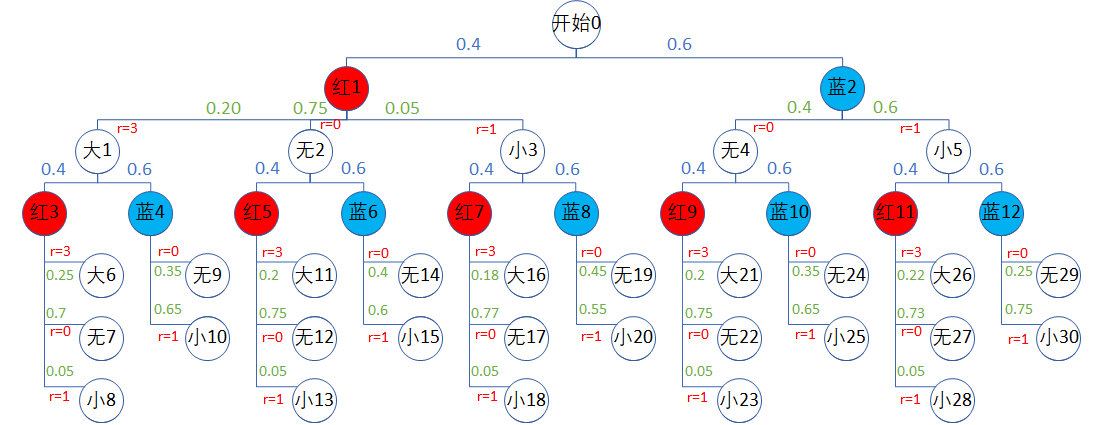
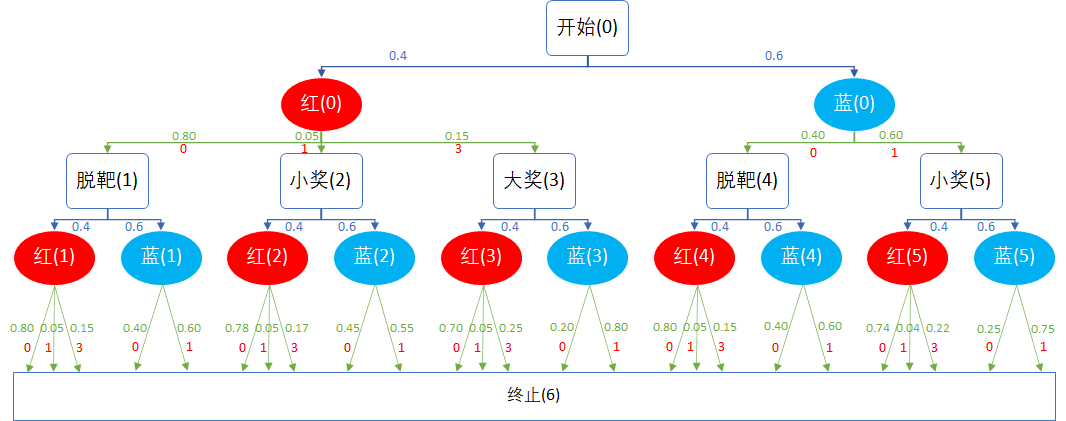
update

Changed region(s): [[0.0, 0.0, 0.9906, 1.0], [0.712, 0.8646, 0.743, 0.8955]]

diff --git a/基础教程/A7-强化学习/draft/80-马尔可夫决策过程/src/Shoot_0_DataModel.py b/基础教程/A7-强化学习/draft/80-马尔可夫决策过程/src/Shoot_0_DataModel.py
@@ -1,13 +1,13 @@
 from enum import Enum
 
 class States(Enum):
-     Start = 0       # 开始
-     SR0 = 1       # 脱靶
-     SR1 = 2       # 小奖
-     SR3 = 3       # 大奖
-     SB0 = 4       # 脱靶
-     SB1 = 5       # 小奖
-     T6 = 6       # 终止
+     Start = 0      # 开始
+     S_Red_R0 = 1   # 脱靶
+     S_Red_R1 = 2   # 小奖
+     S_Red_R3 = 3   # 大奖
+     S_Blue_R0 = 4  # 脱靶
+     S_Blue_R1 = 5  # 小奖
+     T = 6          # 终止
 
 # 动作空间
 class Actions(Enum):
@@ -24,76 +24,77 @@ P = {
     # state: {action: [(p, s', r),...]}
     States.Start.value:{                                    # 开始状态（第一枪）
         Actions.Red.value:[                                 # 选择射击红球
-            (0.80, States.SR0.value, Rewards.Zero.value ),  # 脱靶的概率:0.80,      转移到状态 SR0(1), 得到0分奖励
-            (0.05, States.SR1.value, Rewards.Small.value),  # 误中蓝球的概率:0.05,  转移到状态 SR1(2), 得到1分奖励
-            (0.15, States.SR3.value, Rewards.Grand.value),  # 击中红球的概率:0.15,  转移到状态 SR3(3), 得到3分奖励
+            (0.80, States.S_Red_R0.value, Rewards.Zero.value ),  # 脱靶的概率:0.80,      转移到状态 SR0(s1), 得到0分奖励
+            (0.05, States.S_Red_R1.value, Rewards.Small.value),  # 误中蓝球的概率:0.05,  转移到状态 SR1(s2), 得到1分奖励
+            (0.15, States.S_Red_R3.value, Rewards.Grand.value),  # 击中红球的概率:0.15,  转移到状态 SR3(s3), 得到3分奖励
         ],       
         Actions.Blue.value:[                                # 选择射击蓝球
-            (0.40, States.SB0.value, Rewards.Zero.value),   # 脱靶的概率:0.40,      转移到状态 SB0(4), 得到0分奖励
-            (0.60, States.SB1.value, Rewards.Small.value)   # 击中蓝球的概率:0.6,   转移到状态 SB1(5), 得到1分奖励
+            (0.40, States.S_Blue_R0.value, Rewards.Zero.value),   # 脱靶的概率:0.40,      转移到状态 SB0(s4), 得到0分奖励
+            (0.60, States.S_Blue_R1.value, Rewards.Small.value)   # 击中蓝球的概率:0.6,   转移到状态 SB1(s5), 得到1分奖励
         ]                   
     },
-    States.SR0.value:{   # 打红球脱靶
-        Actions.Red.value:[                                 # 选择射击红球
-            (0.80, States.T6.value, Rewards.Zero.value),    # 第二枪脱靶的概率降低到 0.73
-            (0.05, States.T6.value, Rewards.Small.value),   # 误中蓝球的概率不变
-            (0.15, States.T6.value, Rewards.Grand.value),   # 第二枪击中红球的概率 0.22,提高了
+    # 以下为第二枪的选择
+    States.S_Red_R0.value:{                                 # 第一枪打红球脱靶
+        Actions.Red.value:[                                 # 继续选择射击红球
+            (0.80, States.T.value, Rewards.Zero.value),     # 第二枪脱靶概率
+            (0.05, States.T.value, Rewards.Small.value),    # 第二枪误中蓝球的概率
+            (0.15, States.T.value, Rewards.Grand.value),    # 第二枪击中红球的概率
         ],
-        Actions.Blue.value:[                                # 选择射击蓝球
-            (0.40, States.T6.value, Rewards.Zero.value),    # 第二枪脱靶的概率不变
-            (0.60, States.T6.value, Rewards.Small.value)    # 第二枪击中蓝球概率不变
+        Actions.Blue.value:[                                # 第二枪选择射击蓝球
+            (0.40, States.T.value, Rewards.Zero.value),     # 第二枪脱靶的概率不变
+            (0.60, States.T.value, Rewards.Small.value)     # 第二枪击中蓝球概率不变
         ]
     },
-    States.SR1.value:{   # 打红球误中小奖
-        Actions.Red.value:[                                 # 选择射击红球
-            (0.78, States.T6.value, Rewards.Zero.value),    # 
-            (0.05, States.T6.value, Rewards.Small.value),
-            (0.17, States.T6.value, Rewards.Grand.value),
+    States.S_Red_R1.value:{                                 # 第一枪打红球误中蓝球
+        Actions.Red.value:[                                 # 继续选择射击红球
+            (0.78, States.T.value, Rewards.Zero.value),     # 脱靶率降低
+            (0.05, States.T.value, Rewards.Small.value),    # 误中蓝色球
+            (0.17, States.T.value, Rewards.Grand.value),    # 击中红球率升高
         ],
-        Actions.Blue.value:[                 
-            (0.45, States.T6.value, Rewards.Zero.value), 
-            (0.55, States.T6.value, Rewards.Small.value)
+        Actions.Blue.value:[                                # 第二枪选择射击蓝球
+            (0.45, States.T.value, Rewards.Zero.value),     # 脱靶率升高
+            (0.55, States.T.value, Rewards.Small.value)     # 击中蓝球率降低
         ]
     }, 
-    States.SR3.value:{   # 打红大奖
-        Actions.Red.value:[               
-            (0.70, States.T6.value, Rewards.Zero.value), 
-            (0.05, States.T6.value, Rewards.Small.value),
-            (0.25, States.T6.value, Rewards.Grand.value), 
+    States.S_Red_R3.value:{                                 # 第一枪打红球击中大奖
+        Actions.Red.value:[                                 # 继续选择射击红球
+            (0.70, States.T.value, Rewards.Zero.value),     # 脱靶率降低
+            (0.05, States.T.value, Rewards.Small.value),    # 误中蓝色球
+            (0.25, States.T.value, Rewards.Grand.value),    # 击中红球率升高
         ],
-        Actions.Blue.value:[                 
-            (0.20, States.T6.value, Rewards.Zero.value), 
-            (0.80, States.T6.value, Rewards.Small.value)
+        Actions.Blue.value:[                                # 第二枪选择射击蓝球                 
+            (0.20, States.T.value, Rewards.Zero.value),     # 脱靶率降低
+            (0.80, States.T.value, Rewards.Small.value)     # 击中蓝球率提高
         ]
     },
-    States.SB0.value:{   # 打蓝脱靶
-        Actions.Red.value:[                   
-            (0.80, States.T6.value, Rewards.Zero.value), 
-            (0.05, States.T6.value, Rewards.Small.value),
-            (0.15, States.T6.value, Rewards.Grand.value), 
+    States.S_Blue_R0.value:{                                # 第一枪打蓝脱靶
+        Actions.Red.value:[                                 # 继续选择射击红球
+            (0.80, States.T.value, Rewards.Zero.value),     # 脱靶率不变
+            (0.05, States.T.value, Rewards.Small.value),    # 误中蓝球
+            (0.15, States.T.value, Rewards.Grand.value),    # 击中红球率不变
         ],
-        Actions.Blue.value:[                 
-            (0.40, States.T6.value, Rewards.Zero.value), 
-            (0.60, States.T6.value, Rewards.Small.value)
+        Actions.Blue.value:[                                # 第二枪选择射击蓝球
+            (0.40, States.T.value, Rewards.Zero.value),     # 脱靶概率不变
+            (0.60, States.T.value, Rewards.Small.value)     # 击中蓝球率不变
         ]
     },
-    States.SB1.value:{   # 打蓝小奖
-        Actions.Red.value:[                   
-            (0.74, States.T6.value, Rewards.Zero.value), 
-            (0.04, States.T6.value, Rewards.Small.value),
-            (0.22, States.T6.value, Rewards.Grand.value), 
+    States.S_Blue_R1.value:{                                # 第一枪打蓝球中小奖
+        Actions.Red.value:[                                 # 选择射击红球
+            (0.74, States.T.value, Rewards.Zero.value),     # 脱靶率降低
+            (0.04, States.T.value, Rewards.Small.value),    # 误中蓝球
+            (0.22, States.T.value, Rewards.Grand.value),    # 击中目标红球率升高
         ],
-        Actions.Blue.value:[               
-            (0.25, States.T6.value, Rewards.Zero.value), 
-            (0.75, States.T6.value, Rewards.Small.value)
+        Actions.Blue.value:[                                # 第二枪选择射击蓝球
+            (0.25, States.T.value, Rewards.Zero.value),     # 脱靶率很低
+            (0.75, States.T.value, Rewards.Small.value)     # 击中蓝球率很高
         ]
     },
-    States.T6.value:{   # 终止
+    States.T.value:{   # 终止
         Actions.Red.value:[
-            (1.0, States.T6.value, 0)
+            (1.0, States.T.value, 0)
         ],
         Actions.Blue.value:[
-            (1.0, States.T6.value, 0)
+            (1.0, States.T.value, 0)
         ]
     }
 }
@@ -106,7 +107,7 @@ class Env(object):
         self.A = Actions
         self.P = P
         self.Policy = policy
-        self.end_states = [States.T6.value]
+        self.end_states = [States.T.value]
 
     def get_actions(self, s):
         actions = self.P[s]
@@ -136,18 +137,18 @@ if __name__=="__main__":
     print("第一枪脱靶", p0)
 
     # 第一枪脱靶后第二枪也脱靶
-    p00 = 0.4 * (0.4 * P[States.SR0.value][Actions.Red.value][0][0] \
-               + 0.6 * P[States.SR0.value][Actions.Blue.value][0][0]) \
-        + 0.6 * (0.4 * P[States.SB0.value][Actions.Red.value][0][0] \
-               + 0.6 * P[States.SB0.value][Actions.Blue.value][0][0])
+    p00 = 0.4 * (0.4 * P[States.S_Red_R0.value][Actions.Red.value][0][0] \
+               + 0.6 * P[States.S_Red_R0.value][Actions.Blue.value][0][0]) \
+        + 0.6 * (0.4 * P[States.S_Blue_R0.value][Actions.Red.value][0][0] \
+               + 0.6 * P[States.S_Blue_R0.value][Actions.Blue.value][0][0])
     # 第一枪脱靶后第二枪中小奖
-    p01 = 0.4 * (0.4 * P[States.SR0.value][Actions.Red.value][1][0] \
-               + 0.6 * P[States.SR0.value][Actions.Blue.value][1][0]) \
-        + 0.6 * (0.4 * P[States.SB0.value][Actions.Red.value][1][0] \
-               + 0.6 * P[States.SB0.value][Actions.Blue.value][1][0])
+    p01 = 0.4 * (0.4 * P[States.S_Red_R0.value][Actions.Red.value][1][0] \
+               + 0.6 * P[States.S_Red_R0.value][Actions.Blue.value][1][0]) \
+        + 0.6 * (0.4 * P[States.S_Blue_R0.value][Actions.Red.value][1][0] \
+               + 0.6 * P[States.S_Blue_R0.value][Actions.Blue.value][1][0])
     # 第一枪脱靶后第二枪中大奖
-    p02 = 0.4 * (0.4 * P[States.SR0.value][Actions.Red.value][2][0]) \
-        + 0.6 * (0.4 * P[States.SB0.value][Actions.Red.value][2][0])
+    p02 = 0.4 * (0.4 * P[States.S_Red_R0.value][Actions.Red.value][2][0]) \
+        + 0.6 * (0.4 * P[States.S_Blue_R0.value][Actions.Red.value][2][0])
     
     p00 = round(p00,3)
     p01 = round(p01,3)
@@ -165,18 +166,18 @@ if __name__=="__main__":
     print("第一枪小奖", p1)
 
     # 第一枪小奖后第二枪脱靶
-    p10 = 0.4 * (0.4 * P[States.SR1.value][Actions.Red.value][0][0] \
-               + 0.6 * P[States.SR1.value][Actions.Blue.value][0][0]) \
-        + 0.6 * (0.4 * P[States.SB1.value][Actions.Red.value][0][0] \
-               + 0.6 * P[States.SB1.value][Actions.Blue.value][0][0])
+    p10 = 0.4 * (0.4 * P[States.S_Red_R1.value][Actions.Red.value][0][0] \
+               + 0.6 * P[States.S_Red_R1.value][Actions.Blue.value][0][0]) \
+        + 0.6 * (0.4 * P[States.S_Blue_R1.value][Actions.Red.value][0][0] \
+               + 0.6 * P[States.S_Blue_R1.value][Actions.Blue.value][0][0])
     # 第一枪小奖后第二枪中小奖
-    p11 = 0.4 * (0.4 * P[States.SR1.value][Actions.Red.value][1][0] \
-               + 0.6 * P[States.SR1.value][Actions.Blue.value][1][0]) \
-        + 0.6 * (0.4 * P[States.SB1.value][Actions.Red.value][1][0] \
-               + 0.6 * P[States.SB1.value][Actions.Blue.value][1][0])
+    p11 = 0.4 * (0.4 * P[States.S_Red_R1.value][Actions.Red.value][1][0] \
+               + 0.6 * P[States.S_Red_R1.value][Actions.Blue.value][1][0]) \
+        + 0.6 * (0.4 * P[States.S_Blue_R1.value][Actions.Red.value][1][0] \
+               + 0.6 * P[States.S_Blue_R1.value][Actions.Blue.value][1][0])
     # 第一枪小奖后第二枪中大奖
-    p12 = 0.4 * (0.4 * P[States.SR1.value][Actions.Red.value][2][0]) \
-        + 0.6 * (0.4 * P[States.SB1.value][Actions.Red.value][2][0])
+    p12 = 0.4 * (0.4 * P[States.S_Red_R1.value][Actions.Red.value][2][0]) \
+        + 0.6 * (0.4 * P[States.S_Blue_R1.value][Actions.Red.value][2][0])
     p10 = round(p10,3)
     p11 = round(p11,3)
     p12 = round(p12,3)        
@@ -193,13 +194,13 @@ if __name__=="__main__":
     print("第一枪大奖",p2)
 
     # 第一枪大奖后第二枪脱靶
-    p20 = 0.4 * P[States.SR3.value][Actions.Red.value][0][0] \
-        + 0.6 * P[States.SR3.value][Actions.Blue.value][0][0]
+    p20 = 0.4 * P[States.S_Red_R3.value][Actions.Red.value][0][0] \
+        + 0.6 * P[States.S_Red_R3.value][Actions.Blue.value][0][0]
     # 第一枪大奖后第二枪中小奖
-    p21 = 0.4 * P[States.SR3.value][Actions.Red.value][1][0] \
-        + 0.6 * P[States.SR3.value][Actions.Blue.value][1][0]
+    p21 = 0.4 * P[States.S_Red_R3.value][Actions.Red.value][1][0] \
+        + 0.6 * P[States.S_Red_R3.value][Actions.Blue.value][1][0]
     # 第一枪大奖后第二枪中大奖
-    p22 = 0.4 * P[States.SR3.value][Actions.Red.value][2][0]
+    p22 = 0.4 * P[States.S_Red_R3.value][Actions.Red.value][2][0]
 
     p20 = round(p20,3)            
     p21 = round(p21,3)            

diff --git a/基础教程/A7-强化学习/draft/80-马尔可夫决策过程/src/Shoot_1_MRP.py b/基础教程/A7-强化学习/draft/80-马尔可夫决策过程/src/Shoot_1_MRP.py
@@ -25,26 +25,6 @@ P = np.array(
     ]
 )
 
-''' 精确值
-P = np.array(
-    [   # 0     1     2     3    4     5      6     7     8     9     10    11    12
-        [0.00, 0.08, 0.54, 0.38, 0.00, 0.00, 0.00, 0.00, 0.00, 0.00, 0.00, 0.00, 0.00], # 0
-        [0.00, 0.00, 0.00, 0.00, 0.10, 0.49, 0.41, 0.00, 0.00, 0.00, 0.00, 0.00, 0.00], # 1
-        [0.00, 0.00, 0.00, 0.00, 0.00, 0.00, 0.00, 0.08, 0.522, 0.398, 0.00, 0.00, 0.00], # 2
-        [0.00, 0.00, 0.00, 0.00, 0.00, 0.00, 0.00, 0.00, 0.00, 0.00, 0.0816, 0.4964, 0.422], # 3
-        [0.00, 0.00, 0.00, 0.00, 0.00, 0.00, 0.00, 0.00, 0.00, 0.00, 0.00, 0.00, 0.00], # 4
-        [0.00, 0.00, 0.00, 0.00, 0.00, 0.00, 0.00, 0.00, 0.00, 0.00, 0.00, 0.00, 0.00], # 5
-        [0.00, 0.00, 0.00, 0.00, 0.00, 0.00, 0.00, 0.00, 0.00, 0.00, 0.00, 0.00, 0.00], # 6
-        [0.00, 0.00, 0.00, 0.00, 0.00, 0.00, 0.00, 0.00, 0.00, 0.00, 0.00, 0.00, 0.00], # 7
-        [0.00, 0.00, 0.00, 0.00, 0.00, 0.00, 0.00, 0.00, 0.00, 0.00, 0.00, 0.00, 0.00], # 8
-        [0.00, 0.00, 0.00, 0.00, 0.00, 0.00, 0.00, 0.00, 0.00, 0.00, 0.00, 0.00, 0.00], # 9
-        [0.00, 0.00, 0.00, 0.00, 0.00, 0.00, 0.00, 0.00, 0.00, 0.00, 0.00, 0.00, 0.00], # 10
-        [0.00, 0.00, 0.00, 0.00, 0.00, 0.00, 0.00, 0.00, 0.00, 0.00, 0.00, 0.00, 0.00], # 11
-        [0.00, 0.00, 0.00, 0.00, 0.00, 0.00, 0.00, 0.00, 0.00, 0.00, 0.00, 0.00, 0.00], # 12
-    ]
-)
-'''
-
 
 def SolveMatrix(gamma):
     # 在对角矩阵上增加一个微小的值来解决奇异矩阵不可求逆的问题

diff --git a/基础教程/A7-强化学习/draft/80-马尔可夫决策过程/src/Shoot_2_PolicyValue.py b/基础教程/A7-强化学习/draft/80-马尔可夫决策过程/src/Shoot_2_PolicyValue.py
@@ -167,3 +167,4 @@ if __name__=="__main__":
     env = dataModel.Env(Policy)
     V, Q = algo.V_in_place_update(env, gamma, max_iteration)
     print(np.round(V,4))
+    print(Q)

diff --git a/基础教程/A7-强化学习/draft/80-马尔可夫决策过程/1-射击问题.md b/基础教程/A7-强化学习/draft/80-马尔可夫决策过程/1-射击问题.md
@@ -208,7 +208,7 @@ $$
 - 状态节点
 
   - 用状态名称和序号加以区分，比如“大1”和“大6”，表明它们是不同的两个状态。
-  - 状态空间的值为 31，因为一共有 31 个状态。
+  - 状态空间的值为 7，一共有 7 个状态。
       - 状态空间的定义是 $S$，一般说到 $s \in S$，意思是某个状态 $s$ 在 $S$ 集合中。
   - 前两级状态节点下都有两个动作选择：红色和蓝色。
   - 第三级状态节点相当于终止状态。
